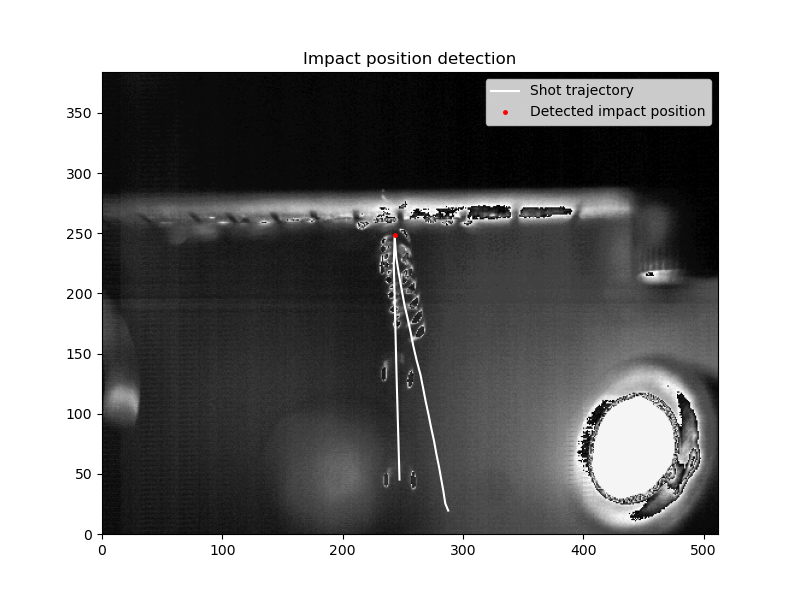
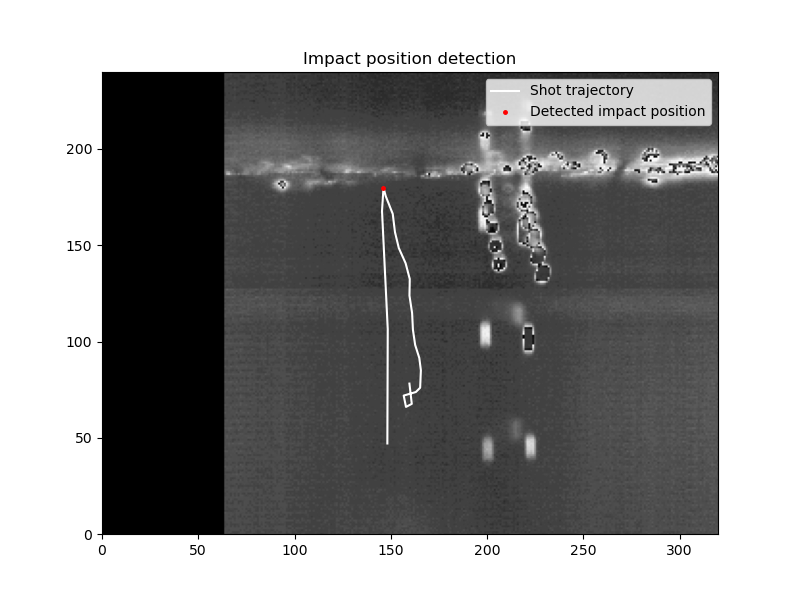
Fix horizontal croping issue

diff --git a/data_treat/data_pp.py b/data_treat/data_pp.py
@@ -1,7 +1,5 @@
 """Several post processing functions to provide the shot velocity before and after impact, the impact angle and position..."""
 import numpy as np
-import matplotlib
-matplotlib.use("Agg")
 import matplotlib.pyplot as plt
 import math
 from PIL import Image
@@ -91,8 +89,8 @@ def get_init_angle(Xi, Yi, Zi, ti, cam_top, cam_left, plot=True, saveDir='data_t
         plt.savefig(saveDir+"Angle.png")
     if plot:
         plt.show(block=False)
-    else:
-        plt.close()
+    #else:
+    #    plt.close()
     print("Horizontal angle: {:.02f}°".format(alpha))
     return alpha
 
@@ -132,8 +130,8 @@ def get_impact_position(X, Y, Z, cam_left, cam_top, plot=True, saveDir='data_tre
     if plot:
         plt.show(block=False)
         print("Impact position: ({:.02f}, {:.02f}, {:.02f}) (cm)".format(X[i], Y[i], Z[i]))
-    else:
-        plt.close()
+    #else:
+    #    plt.close()
     return X[i], Y[i], Z[i]
 
 
@@ -233,6 +231,6 @@ def get_velocity(ti, Xi, Yi, Zi, thres=1.3, plot=True, saveDir='data_treat/', in
         plt.show(block=False)
         print("Velocity after impact: ({:.02f}, {:.02f}, {:.02f}) m/s".format(VX_after / 100, VY_after / 100,
                                                                       VZ_after / 100))
-    else:
-        plt.close()
+    #else:
+    #    plt.close()
     return [VX / 100, VY / 100, VZ / 100], [VX_after / 100, VY_after / 100, VZ_after / 100]

diff --git a/data_treat/objectExtract.py b/data_treat/objectExtract.py
@@ -56,9 +56,11 @@ def compute_2d_traj(cam, splitSymb="_", numsplit=-1, plotTraj=True):
 
 	width, height = img.size
 	RGBPicRef = (np.array(img)[:, :, 0].T).astype(np.int16)
-	RGBPicRef[:int(cam.mask_w), :] = 0
-	RGBPicRef[:, RGBPicRef.shape[1] - int(cam.mask_h):] = 0
-	RGBPicRef = RGBPicRef[:, :height - cam.cropSize[3]]
+	RGBPicRef[:int(cam.mask_w), :] = 0 #Width mask
+	RGBPicRef[:, RGBPicRef.shape[1] - int(cam.mask_h):] = 0 #Height mask
+	RGBPicRef = RGBPicRef[:, :height - cam.cropSize[3]] #Vertical crop
+	RGBPicRef = RGBPicRef[cam.cropSize[0]:width - cam.cropSize[1], :] #Horizontal crop
+
 	if (plotTraj):
 		imSuper = np.copy(RGBPicRef.T)
 	img.close()
@@ -78,6 +80,7 @@ def compute_2d_traj(cam, splitSymb="_", numsplit=-1, plotTraj=True):
 		RGBPic_actu[:int(cam.mask_w), :] = 0
 		RGBPic_actu[:, RGBPic_actu.shape[1] - int(cam.mask_h):] = 0
 		RGBPic_actu = RGBPic_actu[:, :height - cam.cropSize[3]]
+		RGBPic_actu = RGBPic_actu[cam.cropSize[0]:width - cam.cropSize[1], :]
 		if plotTraj:
 			imSuper = np.copy(RGBPic_actu.T)
 		img.close()

diff --git a/data_treat/cam.py b/data_treat/cam.py
@@ -156,4 +156,5 @@ class Cam:
         picList = glob.glob(self.dir + "/*.tif")
         picList += glob.glob(self.dir + "/*.jpg")
         testpic = np.array(Image.open(picList[0]))
-        self.cropSize = [0, 0, 0, testpic.shape[0] - self.res[1]]
+        hor_crop = int(np.abs(testpic.shape[1] - self.res[0])/2.)
+        self.cropSize = [hor_crop, hor_crop, 0, testpic.shape[0] - self.res[1]]

diff --git a/TODO.md b/TODO.md
@@ -3,4 +3,3 @@
 - [ ] Warning for impossible save
 - [ ] Warning for impossible load
 - [ ] Warning setup camera path before using mask
-- [ ] Repair horizontal cropping issue
